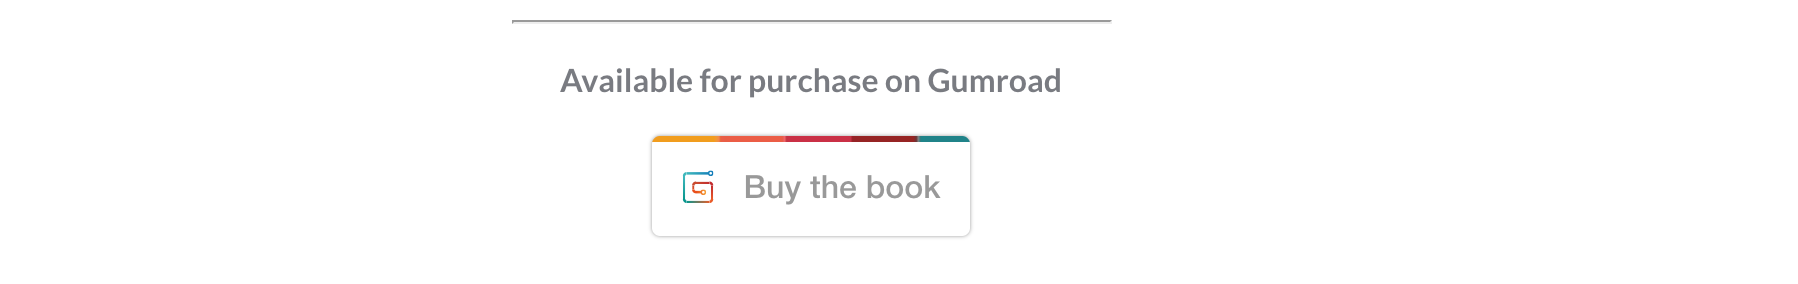
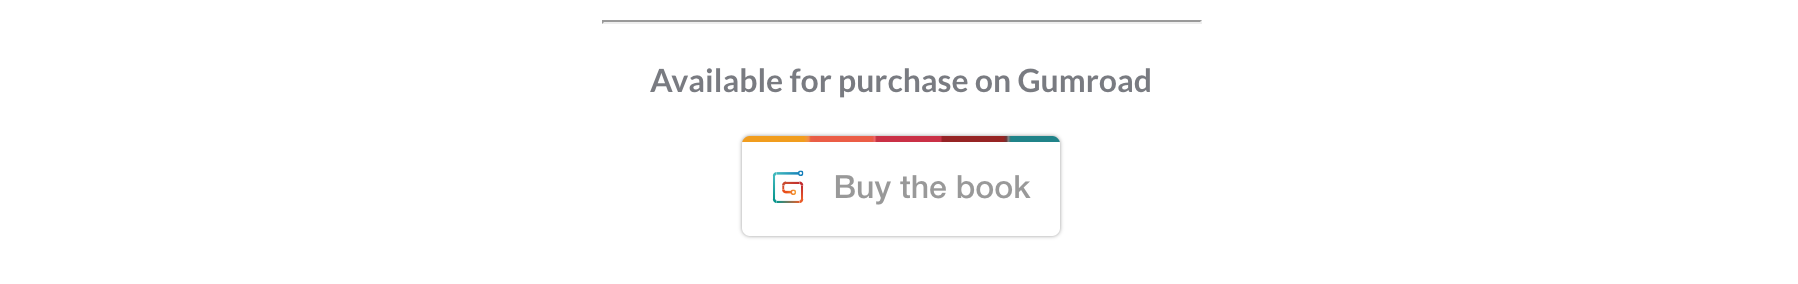
repositioned purchase image

diff --git a/README.md b/README.md
@@ -17,9 +17,9 @@ Start as a beginner, leave production-ready. Build a container-centric Ansible d
 * Dynamic Inventories for Scaling
 * Build a CI \ CD pipeline for Ansible with Github Actions
 
-[<img src="_img/cover.png">](https://gumroad.com/l/become-ansible)
+[<img src="_img/cover.png" class="center">](https://gumroad.com/l/become-ansible)
 
-[<img src="_img/buythebook.png">](https://gumroad.com/l/become-ansible)
+[<img src="_img/buythebook.png" class="center">](https://gumroad.com/l/become-ansible)
 
 **Praise for become Ansible**
 
